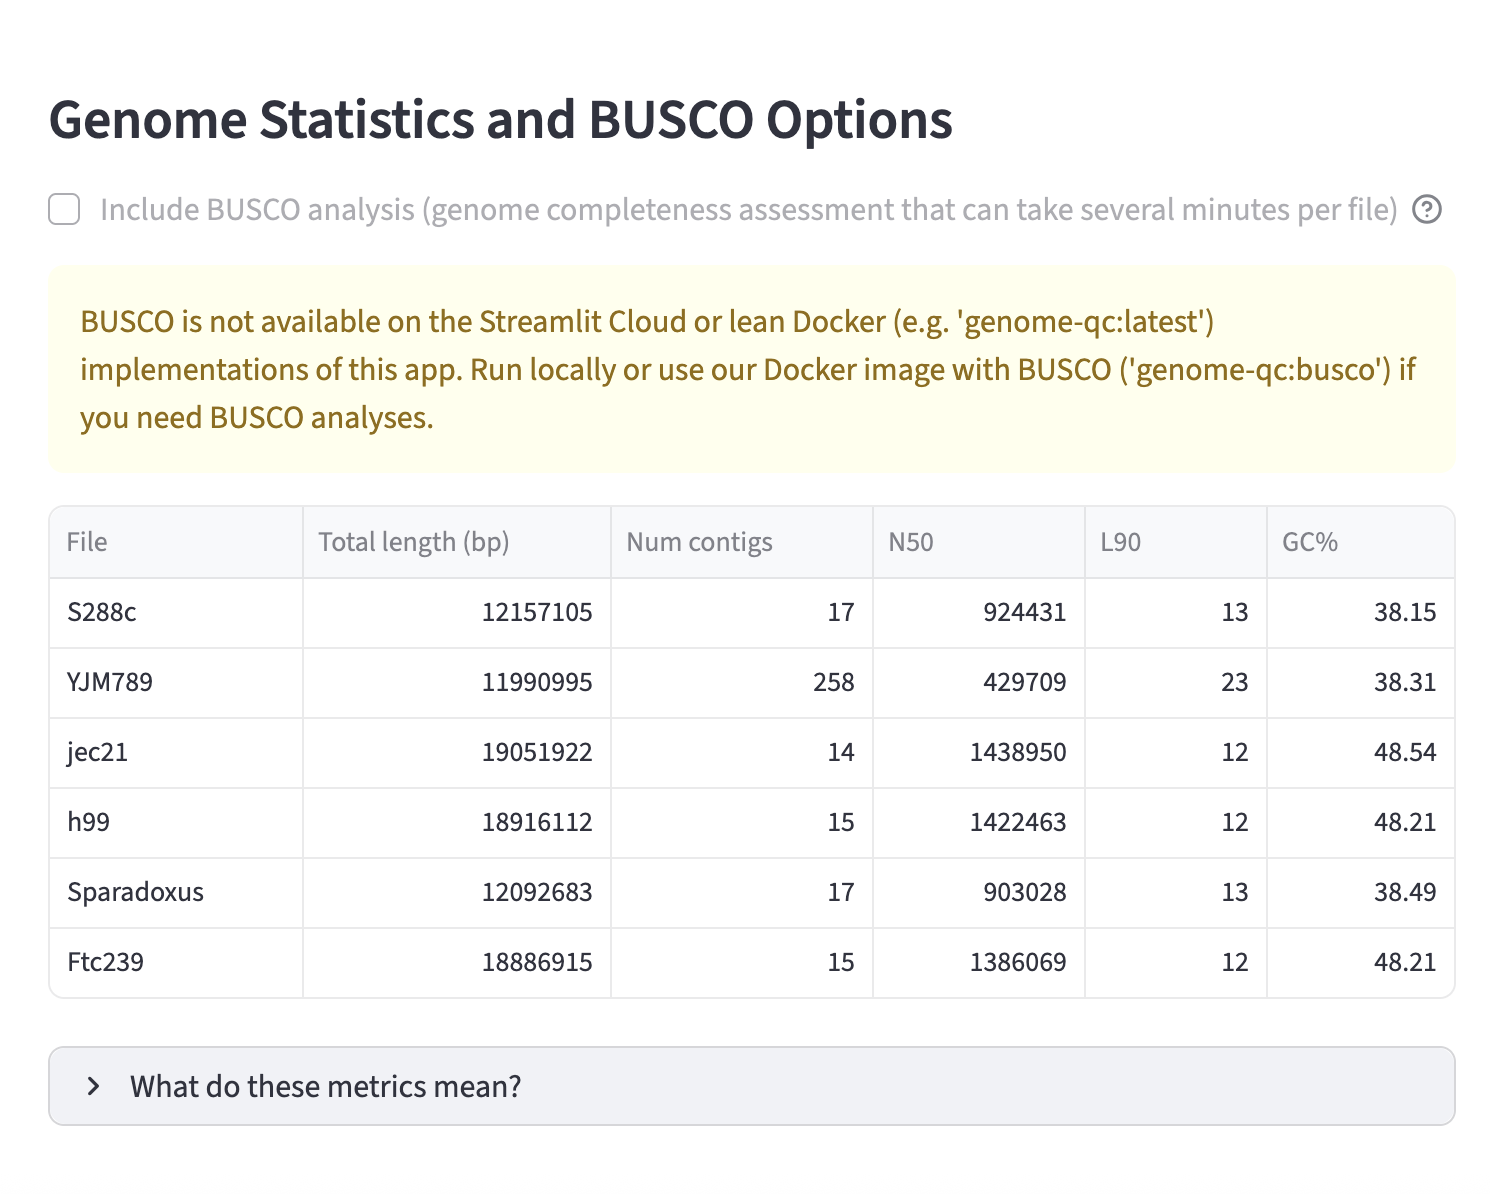
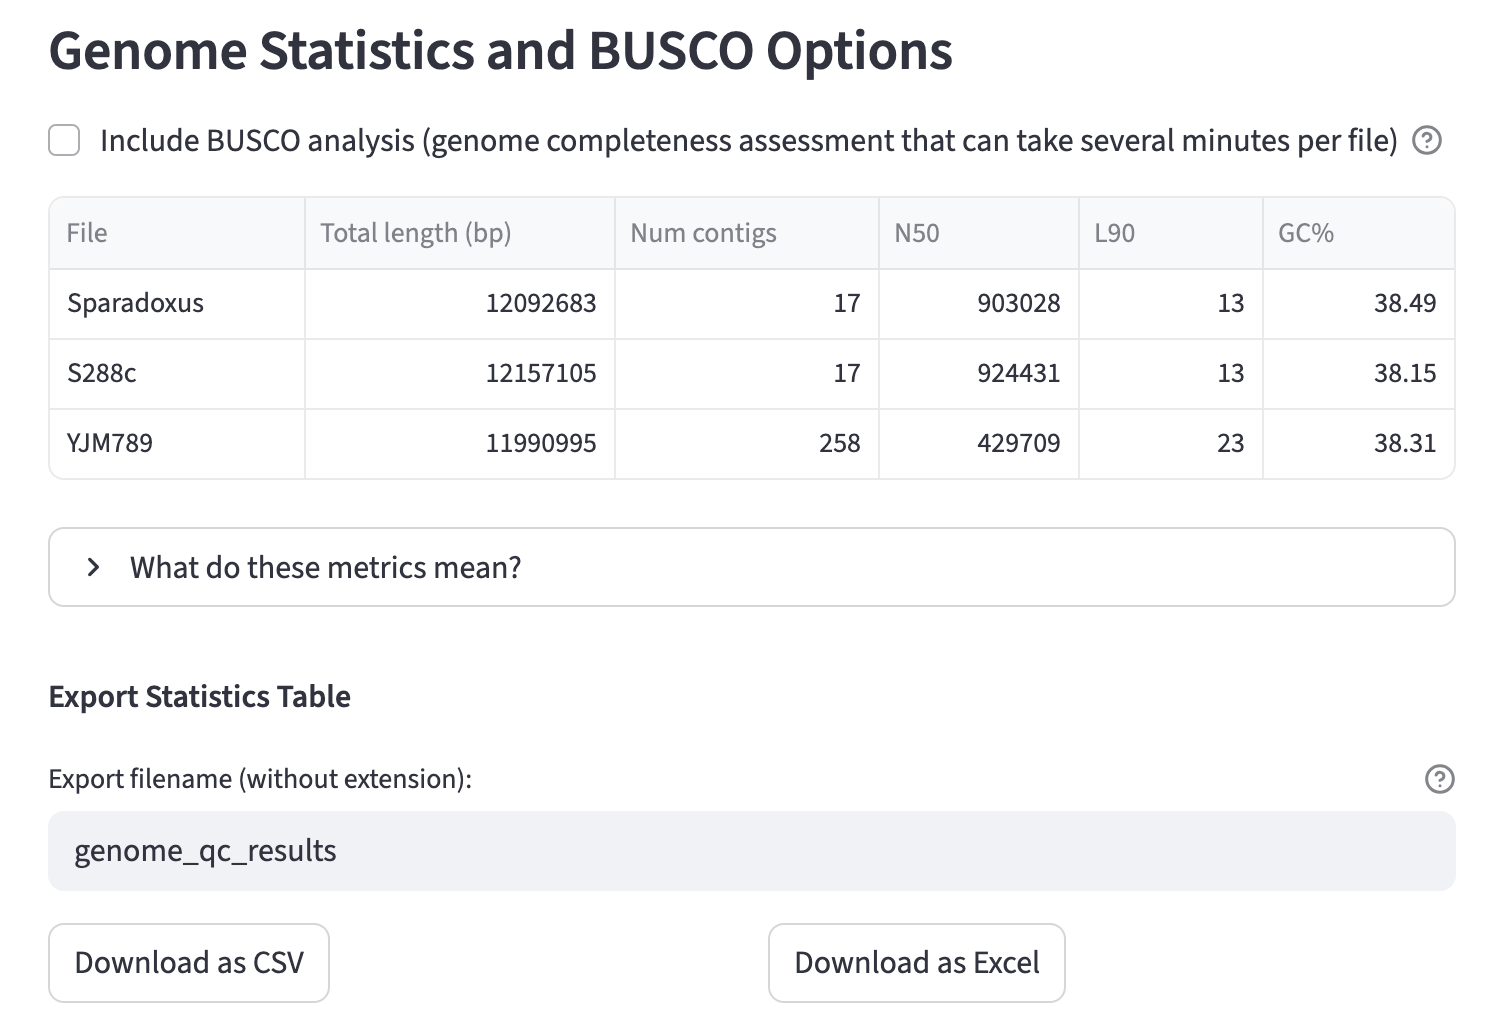
change StatsTable.png image

diff --git a/streamlit_app.py b/streamlit_app.py
@@ -186,14 +186,18 @@ if uploaded_files:
             if not custom_filename.strip():
                 custom_filename = default_filename
             
+            # Create two columns for the download buttons
+            col1, col2 = st.columns(2)
+            
             # CSV export
             csv_data = df.to_csv(index=False)
-            st.download_button(
-                label="Download as CSV",
-                data=csv_data,
-                file_name=f"{custom_filename}.csv",
-                mime="text/csv"
-            )
+            with col1:
+                st.download_button(
+                    label="Download as CSV",
+                    data=csv_data,
+                    file_name=f"{custom_filename}.csv",
+                    mime="text/csv"
+                )
             
             # Excel export
             import io
@@ -202,12 +206,13 @@ if uploaded_files:
                 df.to_excel(writer, index=False, sheet_name='Genome QC Results')
             excel_data = buffer.getvalue()
             
-            st.download_button(
-                label="Download as Excel",
-                data=excel_data,
-                file_name=f"{custom_filename}.xlsx",
-                mime="application/vnd.openxmlformats-officedocument.spreadsheetml.sheet"
-            )
+            with col2:
+                st.download_button(
+                    label="Download as Excel",
+                    data=excel_data,
+                    file_name=f"{custom_filename}.xlsx",
+                    mime="application/vnd.openxmlformats-officedocument.spreadsheetml.sheet"
+                )
 
     #fastANI section
     st.write("---")
